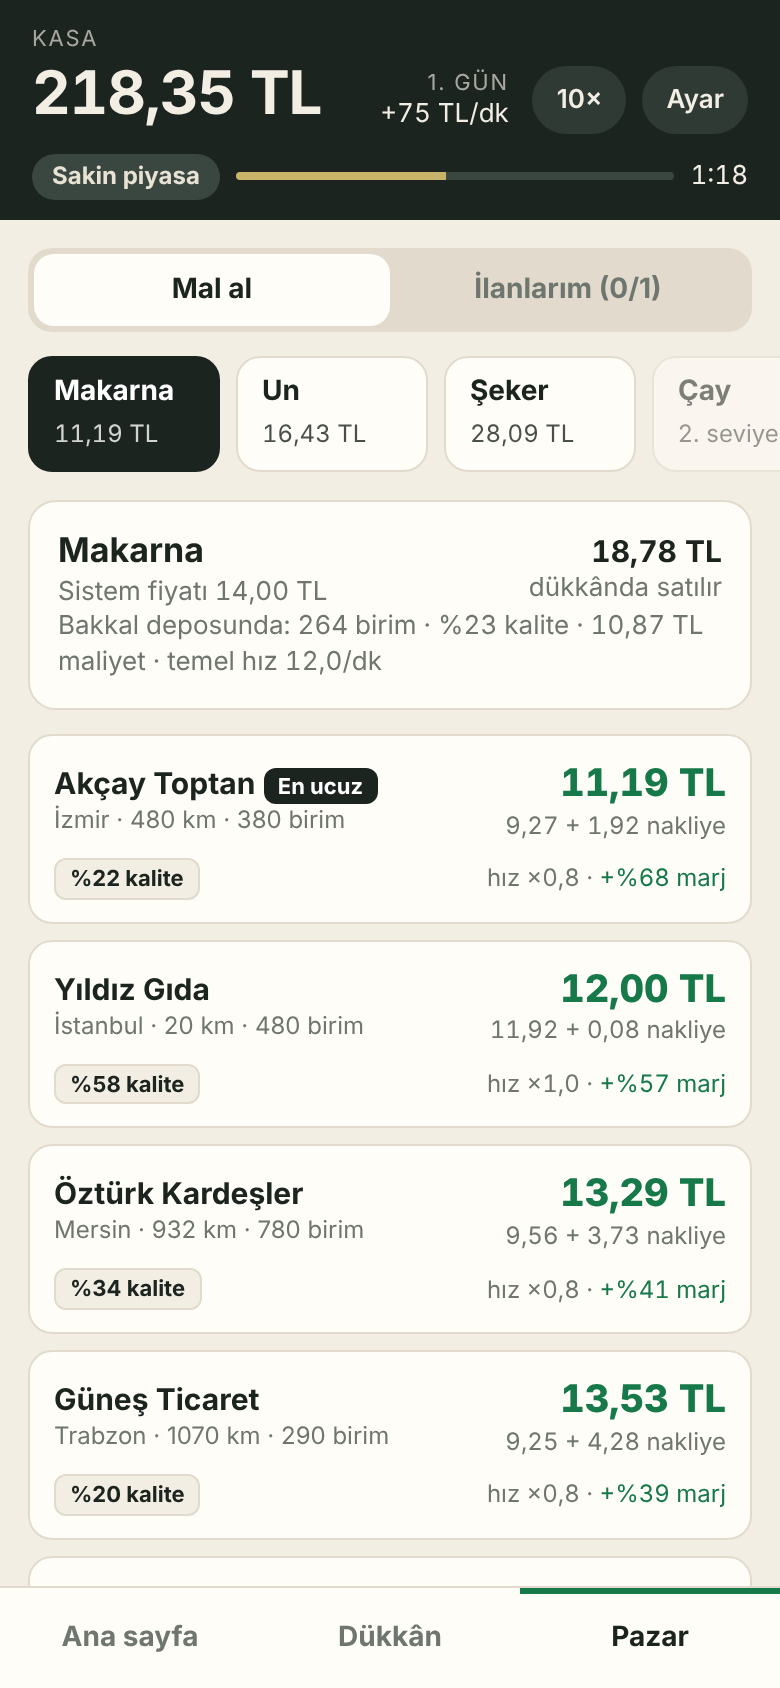
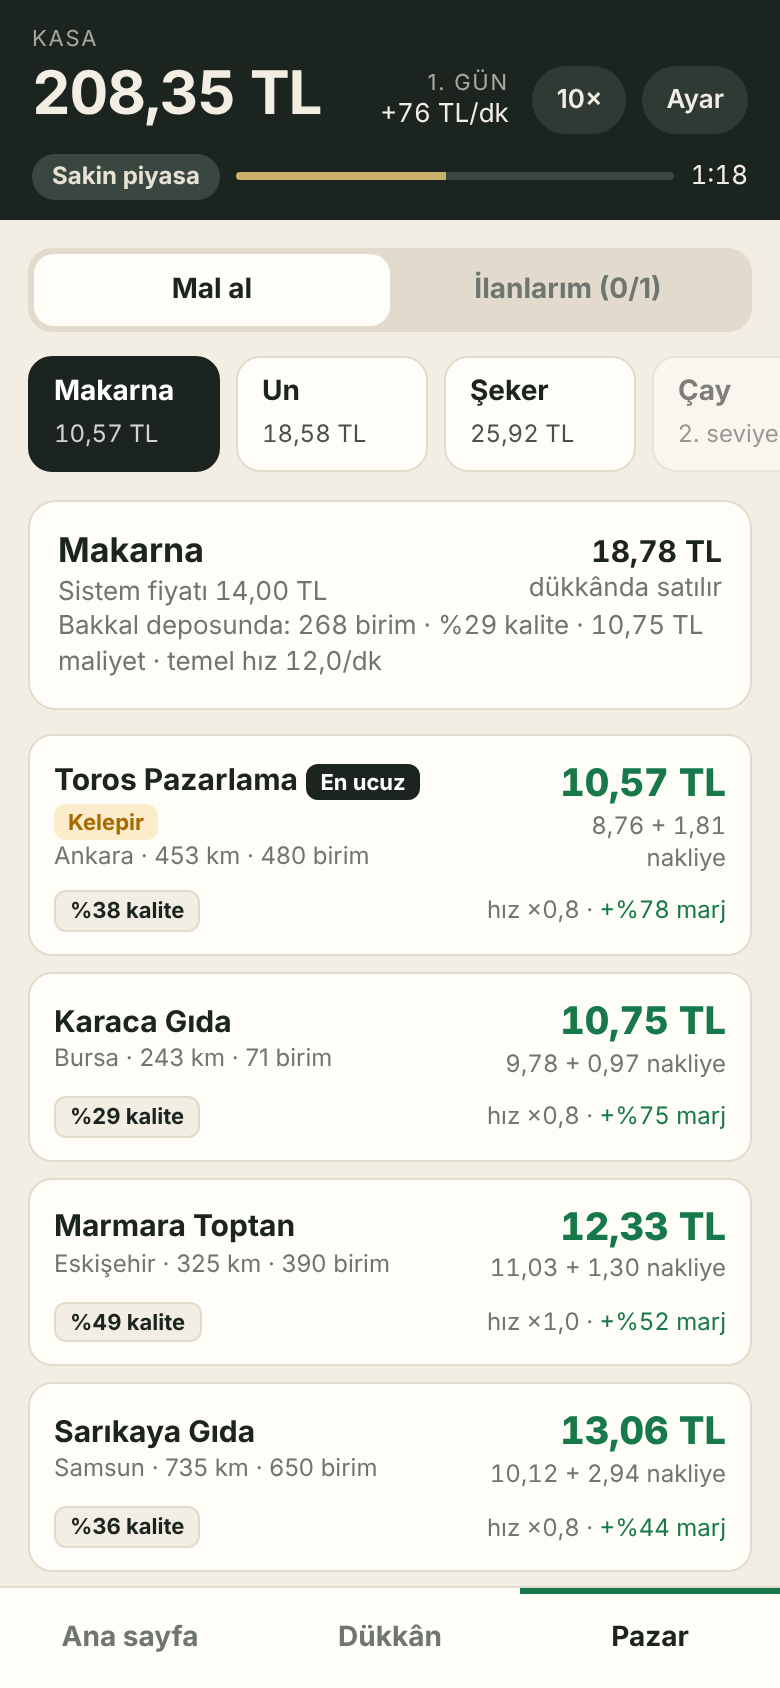
Hemen satış maliyetin %25 altında
Claude-Session: https://claude.ai/code/session_016ga1EdVkJkJaVmwRgvhwTG

diff --git a/src/ui.ts b/src/ui.ts
@@ -55,7 +55,7 @@ function renderShop(){
     h+=`<div class="card"><div class="row"><div><h2>${P[sf.pid].ad}</h2><div class="sub">${i+1}. raf</div></div><div>${st.q>0?qTag(st.qual):`<span class="tag k">Stok yok</span>`}</div></div>
     <div class="kv"><div><b class="num" id="q-${sf.pid}">${st.q}</b><span>stok</span></div><div><b class="num">${tl(rate,1)}/dk</b><span>satış hızı</span></div><div><b class="num ${pr>=0?"up":"dn"}">${st.q>0?(pr>=0?"+":"−")+tl(Math.abs(pr),0):"0"} TL/dk</b><span>kâr</span></div></div>
     <div class="price"><button class="step" data-a="price" data-i="${i}" data-v="-1" aria-label="Fiyatı azalt">−</button><div class="pmid"><b class="num">${tl(sf.price)} TL</b><div class="sub num">piyasa ${tl(ref)} · <span class="${diff>0.5?"dn":diff<-0.5?"up":""}">${Math.abs(diff)<.5?"":diff>0?"+":"−"}%${tl(Math.abs(diff),0)}</span> · maliyet ${tl(st.cost)}</div></div><button class="step" data-a="price" data-i="${i}" data-v="1" aria-label="Fiyatı artır">+</button></div>
-    <div class="row" style="margin-top:12px"><button class="btn ghost" style="flex:1" data-a="swap" data-i="${i}">Ürünü değiştir</button><button class="btn g" style="flex:1" data-a="goto" data-v="${sf.pid}">Mal al</button></div>${st.q>0?`<button class="btn ghost sm full" style="margin-top:8px" data-a="sellback" data-v="${sf.pid}">Maliyetine hemen sat</button>`:""}</div>`});
+    <div class="row" style="margin-top:12px"><button class="btn ghost" style="flex:1" data-a="swap" data-i="${i}">Ürünü değiştir</button><button class="btn g" style="flex:1" data-a="goto" data-v="${sf.pid}">Mal al</button></div>${st.q>0?`<button class="btn ghost sm full" style="margin-top:8px" data-a="sellback" data-v="${sf.pid}">Zararına hemen sat</button>`:""}</div>`});
   const c=upCost(sh);if(c!=null){const z=CONFIG.sizes[sh.size+1];h+=`<div class="card goal"><div class="row"><div><h2>${z.ad} dükkâna büyüt</h2><div class="sub">${z.shelves} raf, ${tl(z.depot,0)} birim depo. Kira ${tl(Math.round(z.rent*t.tier*CONFIG.rentScale),0)} TL/gün olur.</div></div>${costBtn("upgrade",c)}</div><div class="depo"><i id="goalB" data-c="${c}" style="width:${clamp(S.cash/c*100,0,100)}%"></i></div></div>`}
   h+=`<div class="card"><h2 style="margin-bottom:6px">Son satışlar</h2><div class="feed" id="feed">${feedHtml()}</div></div>`;
   return h}
@@ -141,7 +141,7 @@ function offerForm(pid){const sh=cur(),st=sh.stock[pid],fair=offerFair(pid,st.qu
 let sheetP=null;
 function sellCalc(){const sh=cur(),st=sh.stock[sheetP],q=+$("sr").value,p=sellBackPrice(sh,sheetP);$("sv").textContent=q+" birim";$("st1").textContent=tl(q*p)+" TL";const z=q*(st.cost-p);$("st2").textContent=z>0.005?"−"+tl(z)+" TL":"yok";$("st2").className=z>0.005?"dn":"";$("sdo").textContent=q+" birimi hemen sat"}
 function sellSheet(pid){sheetL=null;sheetP=pid;const sh=cur(),st=sh.stock[pid],p=sellBackPrice(sh,pid);
-  openSheet(`<h2>${P[pid].ad}: maliyetine hemen sat</h2><div class="sub">Mal anında maliyetine nakde döner. Piyasa, aldığın günden beri düştüyse düşüş kadar eksik ödenir. Kâr etmek için malı rafta ya da pazarda ilanla sat.</div>
+  openSheet(`<h2>${P[pid].ad}: zararına hemen sat</h2><div class="sub">Mal anında nakde döner ama maliyetinin %${tl(CONFIG.sellBackLoss*100,0)} altında. Nakde sıkıştığında çıkış yoludur; zarar etmeden satmak için rafı ya da pazarda ilanı kullan.</div>
   <table class="tbl num"><tr><td>Maliyetin</td><td>${tl(st.cost)} TL</td></tr><tr><td>Hemen satış fiyatı</td><td class="${p<st.cost-.005?"dn":""}">${tl(p)} TL</td></tr></table>
   <div class="row"><b>Miktar</b><b class="num" style="font-size:20px" id="sv"></b></div><input type="range" id="sr" min="1" max="${st.q}" value="${st.q}">
   <table class="tbl num"><tr><td>Kasaya girecek</td><td id="st1"></td></tr><tr><td>Zarar</td><td id="st2"></td></tr></table>

diff --git a/tests/engine.test.ts b/tests/engine.test.ts
@@ -68,19 +68,16 @@ describe("banka", () => {
   });
 });
 
-describe("maliyetine hemen satış", () => {
+describe("zararına hemen satış", () => {
   const setup = () => { const l = k.allListings("makarna").find((x) => !x.sys)!; k.buy(l, 100); return k.S.shops[0]; };
-  it("piyasa değişmediyse tam maliyetine satar", () => {
+  it("maliyetin %25 altında satar", () => {
     const sh = setup(), cost = sh.stock.makarna.cost, before = k.S.cash;
     const r = k.sellBack(sh, "makarna", 40);
-    expect(r).toBeCloseTo(40 * cost, 0); expect(sh.stock.makarna.q).toBe(60); expect(k.S.cash).toBeCloseTo(before + r);
+    expect(r).toBeCloseTo(40 * cost * (1 - CONFIG.sellBackLoss), 0); expect(sh.stock.makarna.q).toBe(60); expect(k.S.cash).toBeCloseTo(before + r);
   });
-  it("piyasa düştüyse düşüş oranında eksik öder, yükseldiyse maliyeti geçmez", () => {
+  it("piyasa yükselse de düşse de zarar oranı aynıdır", () => {
     const sh = setup(), cost = sh.stock.makarna.cost, m0 = k.S.market.mult.makarna;
-    k.S.market.mult.makarna = m0 * 0.8;
-    expect(k.sellBackPrice(sh, "makarna")).toBeCloseTo(cost * 0.8, 1);
-    k.S.market.mult.makarna = m0 * 1.3;
-    expect(k.sellBackPrice(sh, "makarna")).toBeCloseTo(cost, 1);
+    for (const f of [0.8, 1.3]) { k.S.market.mult.makarna = m0 * f; expect(k.sellBackPrice(sh, "makarna")).toBeCloseTo(cost * (1 - CONFIG.sellBackLoss), 1); }
   });
 });
 

diff --git a/src/engine.ts b/src/engine.ts
@@ -130,13 +130,13 @@ export function buy(l: Listing, qty: number) {
 export function upgrade(sh: Shop) { const c = upCost(sh); if (c == null || S.cash < c) return false; S.cash -= c; sh.val += c; sh.size++; fitShelves(sh); return true; }
 export function openShop(type: string) { const t = T[type]; if (S.level < t.level || S.cash < t.cost || S.shops.some((s) => s.type === type)) return false; S.cash -= t.cost; S.shops.push(mkShop(type)); return true; }
 
-/** Hemen satış fiyatı: maliyet. Piyasa alış anından beri düştüyse düşüş oranında azalır; yükseldiyse maliyeti geçmez. */
+/** Hemen satış fiyatı: maliyetin sellBackLoss kadar altı. */
 export function sellBackPrice(sh: Shop, pid: string) {
   const st = sh.stock[pid], m = S.market.mult[pid];
   const k = CONFIG.sellBackMarketRisk ? Math.min(1, m / (st.mref || m)) : 1;
-  return +(st.cost * k).toFixed(2);
+  return +(st.cost * (1 - CONFIG.sellBackLoss) * k).toFixed(2);
 }
-/** Depodaki malı anında nakde çevirir. Kâr getirmez, seviye puanı kazandırmaz. */
+/** Depodaki malı anında, zararına nakde çevirir. Seviye puanı kazandırmaz. */
 export function sellBack(sh: Shop, pid: string, qty: number) {
   const st = sh.stock[pid];
   qty = Math.min(qty, st.q);

diff --git a/src/data/config.ts b/src/data/config.ts
@@ -17,9 +17,10 @@ export const CONFIG = {
     { from: 0.8, k: 2.25 },
     { from: 1.0001, k: 4 },
   ],
-  // Maliyetine hemen satış: mal anında maliyetine nakde döner.
-  // true ise piyasa alış anına göre düştüyse düşüş oranında eksik ödenir (fiyat riski oyuncuda kalır).
-  sellBackMarketRisk: true,
+  // Hemen satış: mal anında nakde döner ama maliyetin sellBackLoss kadar altında. Çıkış yoludur, bedeli vardır.
+  sellBackLoss: 0.25,
+  // true ise piyasa alış anına göre düştüyse düşüş oranında ayrıca eksik ödenir.
+  sellBackMarketRisk: false,
   // Pazarda ilan: alıcı hızı = ürünün taban hızı x offerRateK; fiyat piyasa değerinin %10 üstündeyse kimse almaz, %10 altındaysa iki kat hızlı gider.
   offerRateK: 3,
   offerPriceSens: 10,
